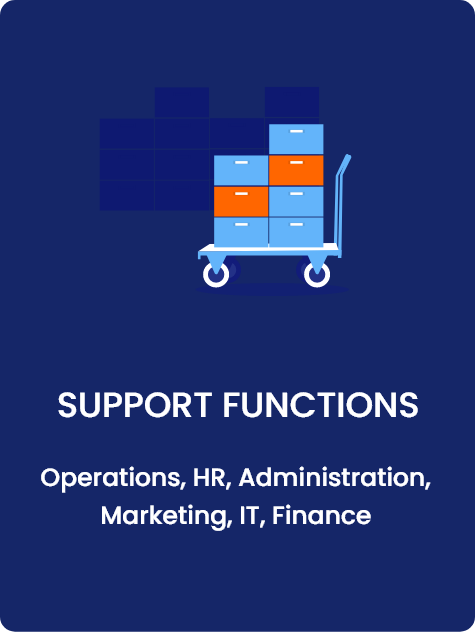
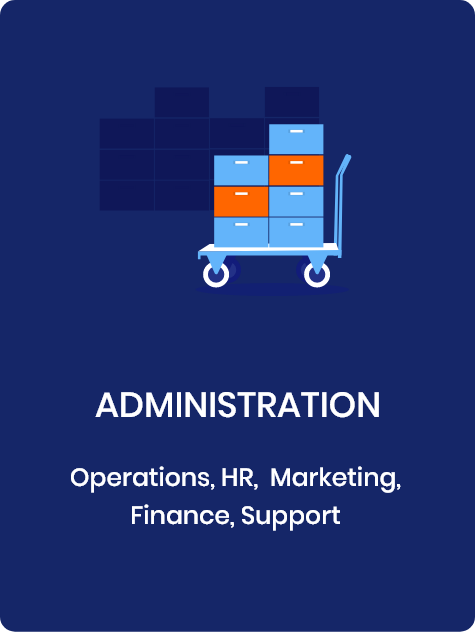
new changes

Changed region(s): [[0.0884, 0.7215, 0.9137, 0.8418], [0.2063, 0.1203, 0.6779, 0.3307], [0.1179, 0.6013, 0.8842, 0.6614]]

diff --git a/whatwedo.html b/whatwedo.html
@@ -29,9 +29,9 @@
 
         .flip-card {
             background-color: transparent;
-            width: 14%;
+            width: 15%;
             float: left;
-            margin-left: 14.50%;
+            margin-left: 13.75%;
             margin-top: 1%;
             height: auto;
 
@@ -67,7 +67,7 @@
         .flip-card-back {
             position: absolute;
             width: 100%;
- height: 100%;
+ height: 120%;
             -webkit-backface-visibility: hidden;
             /* Safari */
             backface-visibility: hidden;
@@ -82,9 +82,9 @@
             color: white;
             transform: rotateY(180deg);
             font-family: Poppins;
-            font-size: 10px;
-            padding: 10%;
-            height: 85%;
+            font-size: 12px;
+            padding: 5%;
+            height: 90%;
         }
 
         .small {
@@ -828,10 +828,10 @@
         <br><br>
         <img src="PageWiseAssets/Landing2.png" style="width: 100%;height:50vh;position: relative;top: 0;left: 0;" />
         <div id="landingtext" style="text-align: center;color: white;font-family: Playfair Display;font-size: 40;font-weight: bolder;">
-            Our expert recruiters specialize <br>in the following verticals
+            Accelerate Your Hiring Needs - Our expert recruiters specialize <br>in the following verticals
         </div>
 
-        <div id="p2" style="height:320px">
+        <div id="p2" style="height:340px">
 
 
             <div class="flip-card">
@@ -859,7 +859,7 @@
             <div class="flip-card">
                 <div class="flip-card-inner">
                     <div class="flip-card-front">
-                        <img src="PageWiseAssets/supp.svg" />
+                        <img src="PageWiseAssets/supp.png" />
                     </div>
                     <div class="flip-card-back">
                        Administration provides vital back-end support for all organizations. Moreover, it is of significant help in a technology company when employees in their administrative business are aligned with relevant technical knowledge and the ecosystem around them. We understand these dynamics very well and will identify the right resources to get your organization running effectively.
@@ -989,23 +989,19 @@
             </div>
          <button style="margin-left: 45%;margin-bottom: 5%" class="btn3" type="button" onclick="location.href='contactus.html'"><span><a href="contactus.html">Become a Client</a></span></button>
 
-        </div>
-        
-
-  
     <div class="blue footer" style="background-color:rgb(12, 20, 117) ; height: 30vh;clear:both; ">
             <div class="data footerlinks" >
                 <div >
-                    <a href="contactus.html">CONTACT US</a>
+                    <a href="contactus.html">Contact Us</a>
                 </div>
                 <div >
-                    <a  href="hiring.html">JOB SEEKERS</a>
+                    <a  href="hiring.html">Job Seekers</a>
                 </div>
                 <div>
-                   <a href="page3.html"> ABOUT US</a>
+                   <a href="page3.html"> About Us</a>
                 </div>
                 <div>
-                    <a href="#">PRIVACY POLICY</a>
+                    <a href="#">Privacy Policy</a>
                 </div>
             </div>
             <div class="blue" style="overflow: auto;float: left;width: 20%;height: auto;background-color:rgb(12, 20, 117)">
@@ -1033,10 +1029,14 @@
                 <img src="PageWiseAssets/Page8/Footer/design.png" style="max-height: 100%;max-width: 100%;" />
             </div>
         </div>
+        </div>
+        
+
+  
     <div class="phone">
         <img style="width: 100%" src="PageWiseAssets/Landing2ph.png" />
         <div id="landingtext" style="text-align: center;color:white ;font-family: Playfair Display;font-size: 20;font-weight: bolder;top:150px">
-            Our expert recruiters specialize <br>in the following verticals
+            Accelerate Your Hiring Needs - Our expert recruiters specialize <br>in the following verticals
         </div>
         <div style="background:#0D1252; overflow: auto">
 
@@ -1048,7 +1048,7 @@
             <img src="PageWiseAssets/exe.png" style="padding: 10%">
 
 
-            <img src="PageWiseAssets/supp.svg" style="padding: 10%">
+            <img src="PageWiseAssets/supp.png" style="padding: 10%">
 
         </div>
         <div>

diff --git a/index.html b/index.html
@@ -176,11 +176,11 @@
             }
             .lt1{
                 font-family: Playfair Display;font-size: 50;color:rgb(12, 20, 117);font-weight: bolder;
-                     margin-left: 10%;margin-top: 5%;position: absolute;top: 7%
+                     margin-left: 10%;margin-top: 5%;position: absolute;top: 15%
             }
             .lt2{
-                font-family: Poppins;font-size: 30;color:rgb(99, 179, 248);font-weight: 500;
-                     margin-left: 10%;position: absolute;top: 45%
+                font-family: Poppins;font-size: 35;color:#258ce6;font-weight: 500;
+                     margin-left: 10%;position: absolute;top: 55%
             }
        .p3s1{
            padding-top: 0px;
@@ -507,13 +507,13 @@
             </div>
             <div class="lt2" style=""> 
             
-               	If you require talented resources, <br>we are here to make it happen.<br>
+               	If you require talented resources, <br>we are here to make it happen.<br><br>
 
 Serving clients from across the world.
 
             </div>
             <div id="space"></div>
-            <img id="home" src="PageWiseAssets/landingbg.png" style="width: 100%;height: 100vh;padding-top: 10%">
+            <img id="home" src="PageWiseAssets/landingbg.png" style="width: 100%;height: 80vh;padding-top: 10%">
         </div>
 
         <div id="p2">
@@ -605,25 +605,25 @@ We offer HR management services directly to companies or partner with US and Eur
             <div class="flip-card">
                 <div class="flip-card-inner">
                     <div class="flip-card-front">
-                        <img src="PageWiseAssets/supp.svg" />
+                        <img src="PageWiseAssets/supp.png" />
                     </div>
                    
                 </div>
             </div></a>
         </div>
         <div class="blue" style="background-color:rgb(12, 20, 117) ; height: auto;clear:both; ">
-            <div class="data footerlinks" >
+             <div class="data footerlinks" >
                 <div >
-                    <a href="contactus.html">CONTACT US</a>
+                    <a href="contactus.html">Contact Us</a>
                 </div>
                 <div >
-                    <a  href="hiring.html">JOB SEEKERS</a>
+                    <a  href="hiring.html">Job Seekers</a>
                 </div>
                 <div>
-                   <a href="page3.html"> ABOUT US</a>
+                   <a href="page3.html"> About Us</a>
                 </div>
                 <div>
-                    <a href="#">PRIVACY POLICY</a>
+                    <a href="#">Privacy Policy</a>
                 </div>
             </div>
             <div class="blue" style="overflow: auto;float: left;width: 20%;height: auto;background-color:rgb(12, 20, 117)">
@@ -734,18 +734,18 @@ We offer HR management services directly to companies or partner with US and Eur
             </div>
         </div>
         <div class="blue" style="background-color:rgb(12, 20, 117) ; height: auto;clear:both; ">
-            <div class="data footerlinks" >
+             <div class="data footerlinks" >
                 <div >
-                    <a href="contactus.html">CONTACT US</a>
+                    <a href="contactus.html">Contact Us</a>
                 </div>
                 <div >
-                    <a  href="hiring.html">JOB SEEKERS</a>
+                    <a  href="hiring.html">Job Seekers</a>
                 </div>
                 <div>
-                   <a href="page3.html"> ABOUT US</a>
+                   <a href="page3.html"> About Us</a>
                 </div>
                 <div>
-                    <a href="#">PRIVACY POLICY</a>
+                    <a href="#">Privacy Policy</a>
                 </div>
             </div>
             <div class="blue" style="overflow: auto;float: left;width: 20%;height: auto;background-color:rgb(12, 20, 117)">
@@ -774,7 +774,6 @@ We offer HR management services directly to companies or partner with US and Eur
             </div>
         </div> 
     </div>
-</div>
         <script>
             function myFunction() {
   var x = document.getElementById("myTopnav");

diff --git a/hiring.html b/hiring.html
@@ -142,20 +142,20 @@
                 </div>
             </div>
             <div class="blue" style="background-color:rgb(12, 20, 117) ; height: auto;clear:both; ">
-                <div class="data footerlinks">
-                    <div>
-                        <a href="contactus.html">CONTACT US</a>
-                    </div>
-                    <div>
-                        <a href="hiring.html">JOB SEEKERS</a>
-                    </div>
-                    <div>
-                        <a href="page3.html"> ABOUT US</a>
-                    </div>
-                    <div>
-                        <a href="#">PRIVACY POLICY</a>
-                    </div>
+             <div class="data footerlinks" >
+                <div >
+                    <a href="contactus.html">Contact Us</a>
                 </div>
+                <div >
+                    <a  href="hiring.html">Job Seekers</a>
+                </div>
+                <div>
+                   <a href="page3.html"> About Us</a>
+                </div>
+                <div>
+                    <a href="#">Privacy Policy</a>
+                </div>
+            </div>
                 <div class="blue" style="overflow: auto;float: left;width: 20%;height: auto;background-color:rgb(12, 20, 117)">
                     <img src="PageWiseAssets/Page8/Footer/design.png" style="max-height: 100%;max-width: 100%; " />
                 </div>

diff --git a/page3.html b/page3.html
@@ -201,7 +201,7 @@
             <img id="home" src="PageWiseAssets\LandingPageBuilding.png" style="width: 100%">
         </div> -->
         
-        <div class="p3s1">
+        <div class="p3s1" style="background-color: white;color:rgb(12, 20, 117)">
             <div class="p3s11" >
                 <br><br>
                 <h1>How Can We Help You</h1>
@@ -286,18 +286,18 @@
             <div></div>
         </div>  
         <div class="blue" style="background-color:rgb(12, 20, 117) ; height: auto;clear:both; ">
-            <div class="data footerlinks" >
+             <div class="data footerlinks" >
                 <div >
-                    <a href="contactus.html">CONTACT US</a>
+                    <a href="contactus.html">Contact Us</a>
                 </div>
                 <div >
-                    <a  href="hiring.html">JOB SEEKERS</a>
+                    <a  href="hiring.html">Job Seekers</a>
                 </div>
                 <div>
-                   <a href="page3.html"> ABOUT US</a>
+                   <a href="page3.html"> About Us</a>
                 </div>
                 <div>
-                    <a href="#">PRIVACY POLICY</a>
+                    <a href="#">Privacy Policy</a>
                 </div>
             </div>
             <div class="blue" style="overflow: auto;float: left;width: 20%;height: auto;background-color:rgb(12, 20, 117)">

diff --git a/OPos.html b/OPos.html
@@ -199,18 +199,18 @@
             <div class="opapply"></div>
         </div>
         <div class="blue" style="background-color:rgb(12, 20, 117) ; height: auto;clear:both;position: sticky; ">
-            <div class="data footerlinks" >
+           <div class="data footerlinks" >
                 <div >
-                    <a href="contactus.html">CONTACT US</a>
+                    <a href="contactus.html">Contact Us</a>
                 </div>
                 <div >
-                    <a  href="hiring.html">JOB SEEKERS</a>
+                    <a  href="hiring.html">Job Seekers</a>
                 </div>
                 <div>
-                   <a href="page3.html"> ABOUT US</a>
+                   <a href="page3.html"> About Us</a>
                 </div>
                 <div>
-                    <a href="#">PRIVACY POLICY</a>
+                    <a href="#">Privacy Policy</a>
                 </div>
             </div>
             <div class="blue" style="overflow: auto;float: left;width: 20%;height: auto;background-color:rgb(12, 20, 117)">

diff --git a/contactus.html b/contactus.html
@@ -259,16 +259,16 @@
             </div>
             <div class="data footerlinks" >
                 <div >
-                    <a href="contactus.html">CONTACT US</a>
+                    <a href="contactus.html">Contact Us</a>
                 </div>
                 <div >
-                    <a  href="hiring.html">JOB SEEKERS</a>
+                    <a  href="hiring.html">Job Seekers</a>
                 </div>
                 <div>
-                   <a href="page3.html"> ABOUT US</a>
+                   <a href="page3.html"> About Us</a>
                 </div>
                 <div>
-                    <a href="#">PRIVACY POLICY</a>
+                    <a href="#">Privacy Policy</a>
                 </div>
             </div>
             <div class="blue" style="overflow: auto;float: left;width: 20%;height: auto;background-color:rgb(12, 20, 117)">
